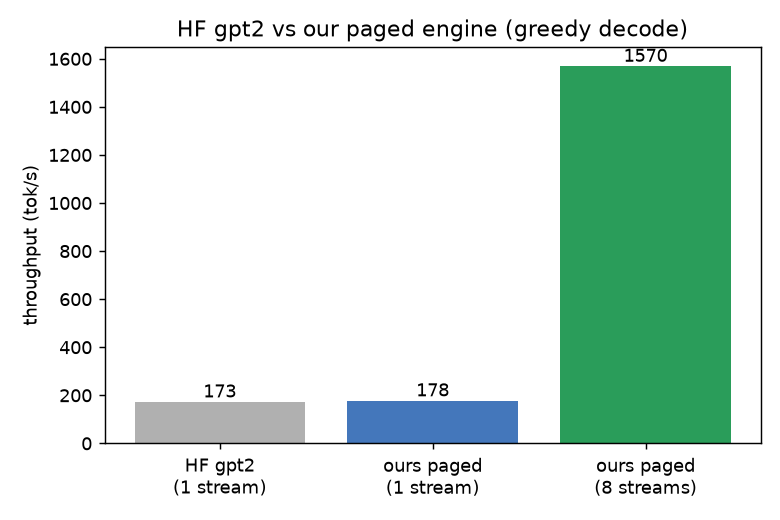
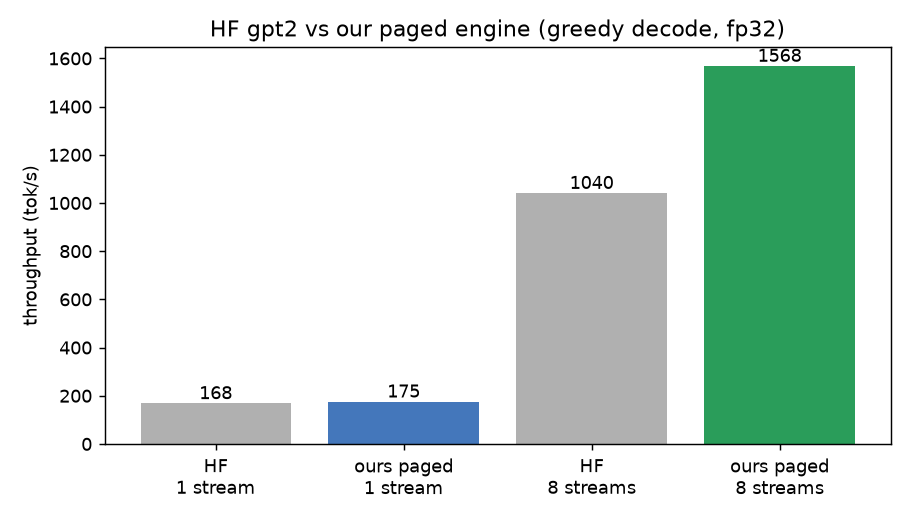
fig_hf_paged: add fair HF 8-stream bar (batched generate)
HFs own batched generate (left-pad + attention mask) as the apples-to-apples
8-stream baseline. Result: per-stream ours~=HF (175 vs 168); at 8 streams ours
1568 vs HF 1040 (~1.5x) - continuous batching + paged attention skip the padding
HFs batched path computes over. Margin grows with length variance.

Changed region(s): [[0.0308, 0.0923, 0.9846, 0.9538], [0.2154, 0.0308, 0.8923, 0.1231], [0.2154, 0.7385, 0.3077, 0.7692]]

diff --git a/plots.py b/plots.py
@@ -95,6 +95,21 @@ def _toks_per_s_hf(hf, ids, eos, n=100):
     return n / (time.perf_counter() - t0)
 
 
+def _toks_per_s_hf_batched(hf, tok, texts, n=100):
+    # HF's own batched generate: left-pad the prompts + attention mask. This is
+    # the fair 8-stream counterpart to our continuous-batching engine.
+    tok.padding_side = "left"
+    tok.pad_token = tok.eos_token
+    enc = tok(texts, return_tensors="pt", padding=True).to(DEVICE)
+    gen = dict(max_new_tokens=n, do_sample=False, pad_token_id=tok.eos_token_id)
+    hf.generate(**enc, **{**gen, "max_new_tokens": 5})   # warmup
+    torch.cuda.synchronize(); t0 = time.perf_counter()
+    out = hf.generate(**enc, **gen)
+    torch.cuda.synchronize()
+    new = (out.shape[1] - enc["input_ids"].shape[1]) * len(texts)
+    return new / (time.perf_counter() - t0)
+
+
 def fig_hf_paged():
     tok = GPT2TokenizerFast.from_pretrained("gpt2")
     texts = ["The capital of France is", "Once upon a time,",
@@ -110,15 +125,16 @@ def fig_hf_paged():
     vals = [
         _toks_per_s_hf(hf, ids0, tok.eos_token_id),
         _toks_per_s_ours_single(gm, ids0),
+        _toks_per_s_hf_batched(hf, tok, texts),
         _toks_per_s_ours_batched(gm, plist),
     ]
-    labels = ["HF gpt2\n(1 stream)", "ours paged\n(1 stream)", "ours paged\n(8 streams)"]
-    plt.figure(figsize=(6, 4))
-    bars = plt.bar(labels, vals, color=[GREY, BLUE, GREEN])
+    labels = ["HF\n1 stream", "ours paged\n1 stream", "HF\n8 streams", "ours paged\n8 streams"]
+    plt.figure(figsize=(7, 4))
+    bars = plt.bar(labels, vals, color=[GREY, BLUE, GREY, GREEN])
     for b, v in zip(bars, vals):
         plt.text(b.get_x() + b.get_width() / 2, v, f"{v:.0f}", ha="center", va="bottom")
     plt.ylabel("throughput (tok/s)")
-    plt.title("HF gpt2 vs our paged engine (greedy decode)")
+    plt.title("HF gpt2 vs our paged engine (greedy decode, fp32)")
     plt.tight_layout(); plt.savefig("fig_hf_paged.png", dpi=130); plt.close()
     print("saved fig_hf_paged.png")
 